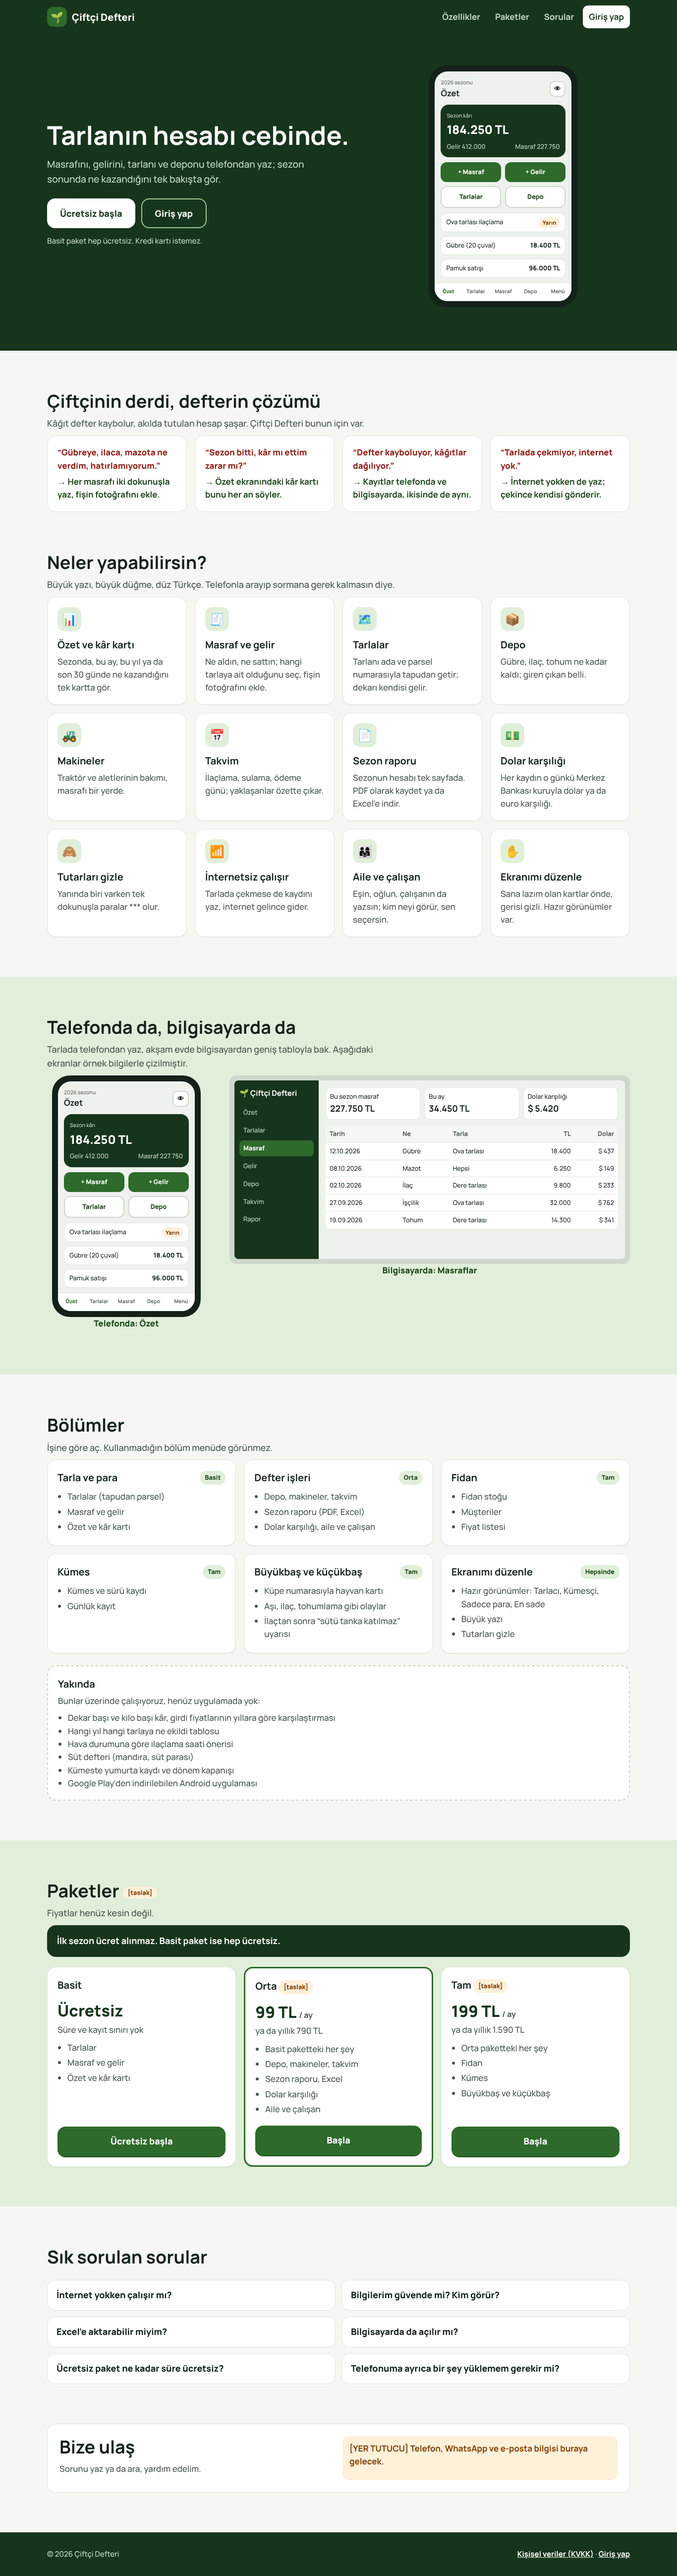
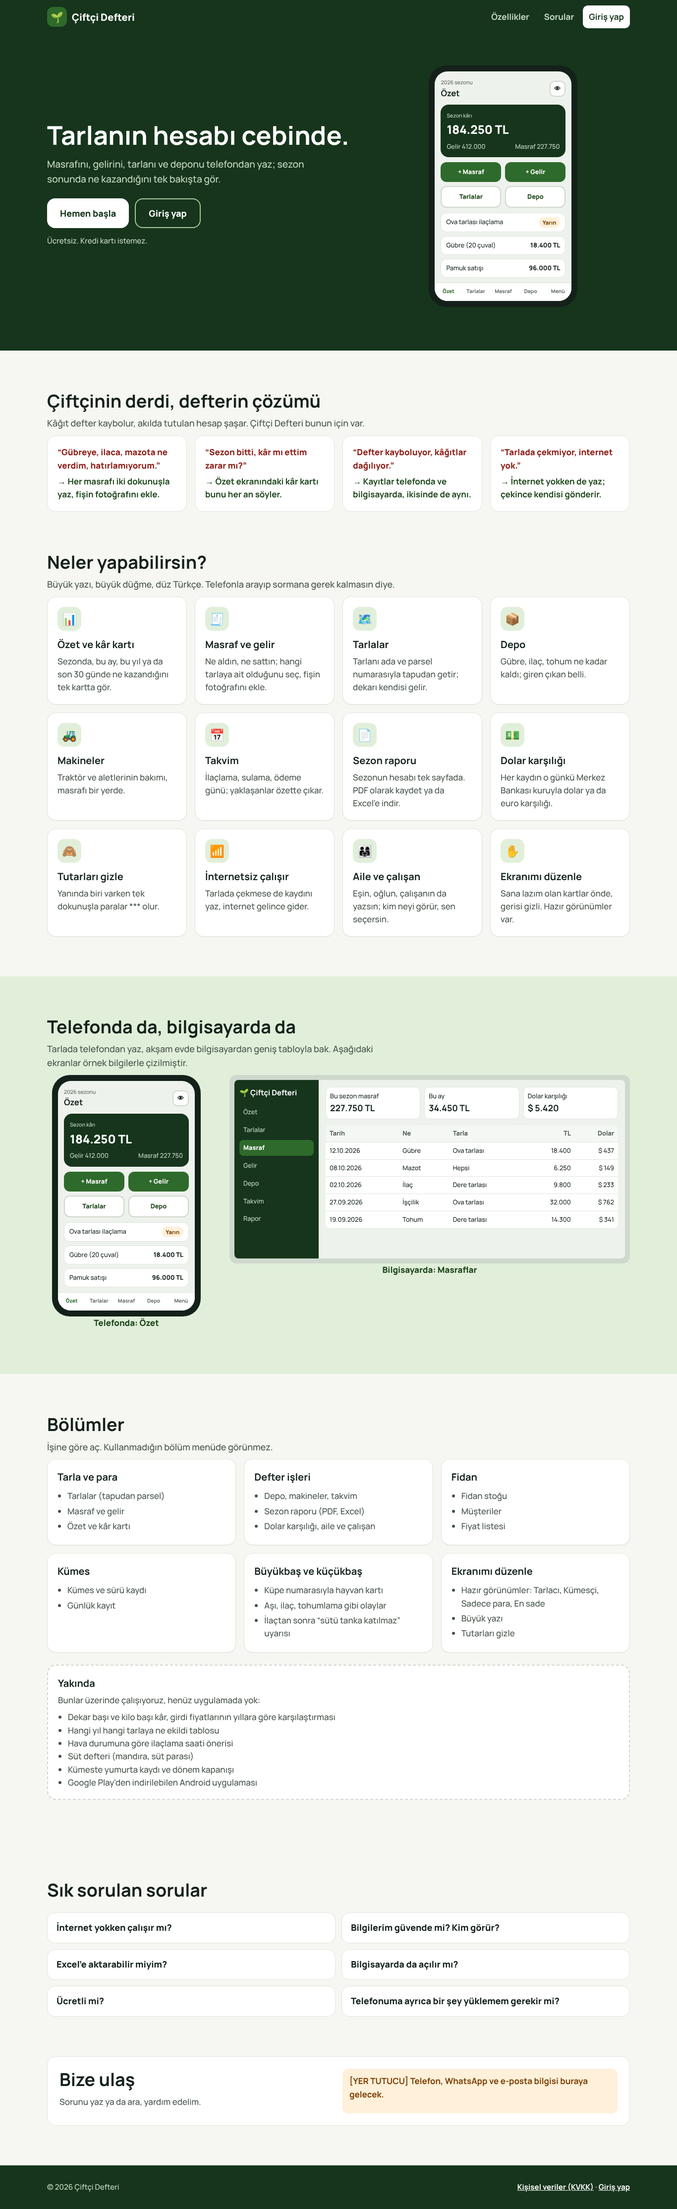
Tanıtım: ücret/paket kısımları kaldırıldı, cep.tsx'te saklı
Claude-Session: https://claude.ai/code/session_01Uc4K9ZYdhHxQncxStdyhs4

diff --git a/dayibasi/app/tanitim/page.tsx b/dayibasi/app/tanitim/page.tsx
@@ -1,9 +1,10 @@
 import type { Metadata } from "next";
 import "./tanitim.css";
 
-// TASLAK tanıtım sayfası. Canlı ana sayfa değişmedi. Fiyatlar ve iletişim onay bekliyor (docs/moduller/tanitim.md).
+// TASLAK tanıtım sayfası. Canlı ana sayfa değişmedi. İletişim onay bekliyor (docs/moduller/tanitim.md).
+// Paketler/fiyatlar şimdilik kaldırıldı (ücret alınmıyor); eski hâli cep.tsx'te saklı.
 const baslik = "Çiftçi Defteri: tarlanın hesabı cebinde";
-const aciklama = "Masrafını, gelirini, tarlanı, deponu ve hayvanını telefondan yaz; sezon sonunda ne kazandığını tek bakışta gör. Basit paket ücretsiz.";
+const aciklama = "Masrafını, gelirini, tarlanı, deponu ve hayvanını telefondan yaz; sezon sonunda ne kazandığını tek bakışta gör. Ücretsiz.";
 
 export const metadata: Metadata = {
   title: baslik,
@@ -39,7 +40,7 @@ const sss = [
   { s: "Bilgilerim güvende mi? Kim görür?", c: "Defterini yalnızca sen ve senin eklediğin aile üyeleri ya da çalışanlar görür. Çalışanın parayı görüp görmeyeceğine sen karar verirsin. Bilgilerin kimseyle paylaşılmaz, satılmaz." },
   { s: "Excel'e aktarabilir miyim?", c: "Evet. Sezon raporu ve masraf-gelir listeleri Excel dosyası olarak iner. Ayarlar'dan bütün kayıtlarını tek dosyada indirebilirsin." },
   { s: "Bilgisayarda da açılır mı?", c: "Evet. Aynı defter telefonda da bilgisayarda da açılır. Bilgisayarda yan menü ve geniş tablolar görünür." },
-  { s: "Ücretsiz paket ne kadar süre ücretsiz?", c: "Basit paket hep ücretsiz ve sınırsız. Orta ve Tam paketlerde ilk sezon ücret alınmaz." },
+  { s: "Ücretli mi?", c: "Hayır. Çiftçi Defteri ücretsizdir; bütün bölümler herkese açık." },
   { s: "Telefonuma ayrıca bir şey yüklemem gerekir mi?", c: "Gerekmez. Adresi açıp giriş yapman yeterli. İstersen ana ekrana ekleyip uygulama gibi kullanırsın." },
 ];
 
@@ -51,7 +52,6 @@ export default function Tanitim() {
           <a className="tn-logo" href="/tanitim"><span className="i" aria-hidden>🌱</span>Çiftçi Defteri</a>
           <nav aria-label="Bölümler">
             <a href="#ozellikler">Özellikler</a>
-            <a href="#paketler">Paketler</a>
             <a href="#sorular">Sorular</a>
             <a className="giris" href="/ciftci">Giriş yap</a>
           </nav>
@@ -64,10 +64,10 @@ export default function Tanitim() {
             <h1>Tarlanın hesabı cebinde.</h1>
             <p className="buyuk">Masrafını, gelirini, tarlanı ve deponu telefondan yaz; sezon sonunda ne kazandığını tek bakışta gör.</p>
             <div className="tn-dugmeler">
-              <a className="tn-btn ana" href="/ciftci">Ücretsiz başla</a>
+              <a className="tn-btn ana" href="/ciftci">Hemen başla</a>
               <a className="tn-btn cizgi" href="/ciftci">Giriş yap</a>
             </div>
-            <p className="not">Basit paket hep ücretsiz. Kredi kartı istemez.</p>
+            <p className="not">Ücretsiz. Kredi kartı istemez.</p>
           </div>
           <Telefon />
         </div>
@@ -111,12 +111,12 @@ export default function Tanitim() {
           <h2>Bölümler</h2>
           <p className="tn-alt-baslik">İşine göre aç. Kullanmadığın bölüm menüde görünmez.</p>
           <div className="tn-modul">
-            <div className="tn-kart"><h3>Tarla ve para <span className="tn-pk">Basit</span></h3><ul><li>Tarlalar (tapudan parsel)</li><li>Masraf ve gelir</li><li>Özet ve kâr kartı</li></ul></div>
-            <div className="tn-kart"><h3>Defter işleri <span className="tn-pk">Orta</span></h3><ul><li>Depo, makineler, takvim</li><li>Sezon raporu (PDF, Excel)</li><li>Dolar karşılığı, aile ve çalışan</li></ul></div>
-            <div className="tn-kart"><h3>Fidan <span className="tn-pk">Tam</span></h3><ul><li>Fidan stoğu</li><li>Müşteriler</li><li>Fiyat listesi</li></ul></div>
-            <div className="tn-kart"><h3>Kümes <span className="tn-pk">Tam</span></h3><ul><li>Kümes ve sürü kaydı</li><li>Günlük kayıt</li></ul></div>
-            <div className="tn-kart"><h3>Büyükbaş ve küçükbaş <span className="tn-pk">Tam</span></h3><ul><li>Küpe numarasıyla hayvan kartı</li><li>Aşı, ilaç, tohumlama gibi olaylar</li><li>İlaçtan sonra “sütü tanka katılmaz” uyarısı</li></ul></div>
-            <div className="tn-kart"><h3>Ekranımı düzenle <span className="tn-pk">Hepsinde</span></h3><ul><li>Hazır görünümler: Tarlacı, Kümesçi, Sadece para, En sade</li><li>Büyük yazı</li><li>Tutarları gizle</li></ul></div>
+            <div className="tn-kart"><h3>Tarla ve para</h3><ul><li>Tarlalar (tapudan parsel)</li><li>Masraf ve gelir</li><li>Özet ve kâr kartı</li></ul></div>
+            <div className="tn-kart"><h3>Defter işleri</h3><ul><li>Depo, makineler, takvim</li><li>Sezon raporu (PDF, Excel)</li><li>Dolar karşılığı, aile ve çalışan</li></ul></div>
+            <div className="tn-kart"><h3>Fidan</h3><ul><li>Fidan stoğu</li><li>Müşteriler</li><li>Fiyat listesi</li></ul></div>
+            <div className="tn-kart"><h3>Kümes</h3><ul><li>Kümes ve sürü kaydı</li><li>Günlük kayıt</li></ul></div>
+            <div className="tn-kart"><h3>Büyükbaş ve küçükbaş</h3><ul><li>Küpe numarasıyla hayvan kartı</li><li>Aşı, ilaç, tohumlama gibi olaylar</li><li>İlaçtan sonra “sütü tanka katılmaz” uyarısı</li></ul></div>
+            <div className="tn-kart"><h3>Ekranımı düzenle</h3><ul><li>Hazır görünümler: Tarlacı, Kümesçi, Sadece para, En sade</li><li>Büyük yazı</li><li>Tutarları gizle</li></ul></div>
           </div>
           <div className="tn-yakinda">
             <h3>Yakında</h3>
@@ -129,31 +129,6 @@ export default function Tanitim() {
               <li>Kümeste yumurta kaydı ve dönem kapanışı</li>
               <li>Google Play'den indirilebilen Android uygulaması</li>
             </ul>
-          </div>
-        </div>
-      </section>
-
-      <section className="tn-bolum tn-gorunum" id="paketler">
-        <div className="tn-ic">
-          <h2>Paketler <span className="tn-taslak">[taslak]</span></h2>
-          <p className="tn-alt-baslik">Fiyatlar henüz kesin değil.</p>
-          <div className="tn-ilksezon">İlk sezon ücret alınmaz. Basit paket ise hep ücretsiz.</div>
-          <div className="tn-paket">
-            <div className="tn-kart">
-              <h3>Basit</h3><p className="fiyat">Ücretsiz</p><p className="yil">Süre ve kayıt sınırı yok</p>
-              <ul><li>Tarlalar</li><li>Masraf ve gelir</li><li>Özet ve kâr kartı</li></ul>
-              <a className="tn-btn ana" href="/ciftci">Ücretsiz başla</a>
-            </div>
-            <div className="tn-kart one">
-              <h3>Orta <span className="tn-taslak">[taslak]</span></h3><p className="fiyat">99 TL <small>/ ay</small></p><p className="yil">ya da yıllık 790 TL</p>
-              <ul><li>Basit paketteki her şey</li><li>Depo, makineler, takvim</li><li>Sezon raporu, Excel</li><li>Dolar karşılığı</li><li>Aile ve çalışan</li></ul>
-              <a className="tn-btn ana" href="/ciftci">Başla</a>
-            </div>
-            <div className="tn-kart">
-              <h3>Tam <span className="tn-taslak">[taslak]</span></h3><p className="fiyat">199 TL <small>/ ay</small></p><p className="yil">ya da yıllık 1.590 TL</p>
-              <ul><li>Orta paketteki her şey</li><li>Fidan</li><li>Kümes</li><li>Büyükbaş ve küçükbaş</li></ul>
-              <a className="tn-btn ana" href="/ciftci">Başla</a>
-            </div>
           </div>
         </div>
       </section>

diff --git a/dayibasi/app/tanitim/cep.tsx b/dayibasi/app/tanitim/cep.tsx
@@ -1,0 +1,36 @@
+// CEP: siteden şimdilik kaldırılan parçalar (Mustafa, 10 Kasım 2026: ücret alınmayacak, ileride yine eklenebilir).
+// Bu dosya hiçbir yerde kullanılmıyor; geri eklemek için ilgili parçayı page.tsx'e taşı.
+// - Üst menüde: <a href="#paketler">Paketler</a>
+// - Giriş düğmesi metni: "Ücretsiz başla", alt not: "Basit paket hep ücretsiz. Kredi kartı istemez."
+// - SSS: "Ücretsiz paket ne kadar süre ücretsiz?" → "Basit paket hep ücretsiz ve sınırsız. Orta ve Tam paketlerde ilk sezon ücret alınmaz."
+// - Bölümler kartlarındaki paket etiketleri: Basit, Orta, Tam, Tam, Tam, Hepsinde
+//   (Tarla ve para: Basit · Defter işleri: Orta · Fidan, Kümes, Büyükbaş/küçükbaş: Tam · Ekranımı düzenle: Hepsinde)
+
+export function Paketler() {
+  return (
+      <section className="tn-bolum tn-gorunum" id="paketler">
+        <div className="tn-ic">
+          <h2>Paketler <span className="tn-taslak">[taslak]</span></h2>
+          <p className="tn-alt-baslik">Fiyatlar henüz kesin değil.</p>
+          <div className="tn-ilksezon">İlk sezon ücret alınmaz. Basit paket ise hep ücretsiz.</div>
+          <div className="tn-paket">
+            <div className="tn-kart">
+              <h3>Basit</h3><p className="fiyat">Ücretsiz</p><p className="yil">Süre ve kayıt sınırı yok</p>
+              <ul><li>Tarlalar</li><li>Masraf ve gelir</li><li>Özet ve kâr kartı</li></ul>
+              <a className="tn-btn ana" href="/ciftci">Ücretsiz başla</a>
+            </div>
+            <div className="tn-kart one">
+              <h3>Orta <span className="tn-taslak">[taslak]</span></h3><p className="fiyat">99 TL <small>/ ay</small></p><p className="yil">ya da yıllık 790 TL</p>
+              <ul><li>Basit paketteki her şey</li><li>Depo, makineler, takvim</li><li>Sezon raporu, Excel</li><li>Dolar karşılığı</li><li>Aile ve çalışan</li></ul>
+              <a className="tn-btn ana" href="/ciftci">Başla</a>
+            </div>
+            <div className="tn-kart">
+              <h3>Tam <span className="tn-taslak">[taslak]</span></h3><p className="fiyat">199 TL <small>/ ay</small></p><p className="yil">ya da yıllık 1.590 TL</p>
+              <ul><li>Orta paketteki her şey</li><li>Fidan</li><li>Kümes</li><li>Büyükbaş ve küçükbaş</li></ul>
+              <a className="tn-btn ana" href="/ciftci">Başla</a>
+            </div>
+          </div>
+        </div>
+      </section>
+  );
+}

diff --git a/dayibasi/docs/moduller/tanitim.md b/dayibasi/docs/moduller/tanitim.md
@@ -9,6 +9,10 @@
 - Alan adı ertelendi. Mağaza: önce Android.
 - Destek: uygulama içi kısa videolar.
 
+## Ücret kararı (10 Kasım 2026)
+- **Ücret alınmayacak.** Paketler/fiyatlar siteden kaldırıldı, `app/tanitim/cep.tsx`'te saklı (ileride yine eklenebilir). Aşağıdaki paket/fiyat notları ertelendi.
+- Proje TÜBİTAK başvurusuna çevrildi; sitede TÜBİTAK ile ilgili değişiklik yapılmayacak (Mustafa).
+
 ## Nerede kaldık
 - 4 Kasım 2026: **Site taslağı yapıldı** (`modul/tanitim` dalı, canlı ana sayfa değişmedi): `app/tanitim/page.tsx` + `tanitim.css` → adres `/tanitim`. Arama motoruna kapalı (noindex). Bölümler: giriş cümlesi + "Ücretsiz başla"/"Giriş yap" (ikisi de /ciftci), dert → çözüm, 12 özellik, telefon (Özet) ve bilgisayar (Masraflar) temsili çizimi (örnek rakamlar, HTML/CSS), bölümler/modüller + "Yakında", paketler [taslak], sık sorulan sorular, iletişim [YER TUTUCU], alt bilgi (/kvkk).
 - Görüntüler: `docs/tasarim/tanitim-390.png`, `tanitim-320.png`, `tanitim-1366.png`. Yatay taşma yok, konsol hatası yok.
@@ -22,7 +26,6 @@
 
 ## Açık sorular
 - İletişim: telefon / WhatsApp / e-posta ne yazılacak?
-- Fiyatlar kesinleşti mi (99/790, 199/1.590)?
 - Alan adı (ertelendi).
 - Taslak ana sayfaya ne zaman geçecek (şu an `/` dayıbaşı; geçince `/tanitim` içeriği `/`'a taşınır)?
 - "Ücretsiz başla" doğrudan "Yeni hesap aç" ekranını açsın mı? (core'a not edildi)
